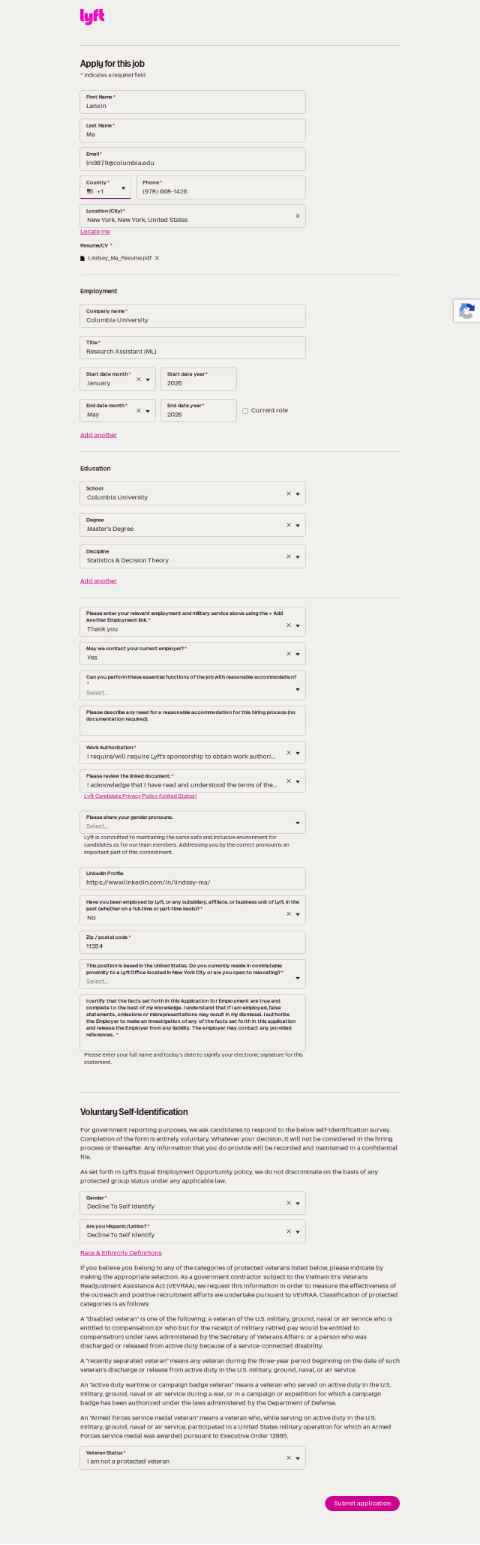
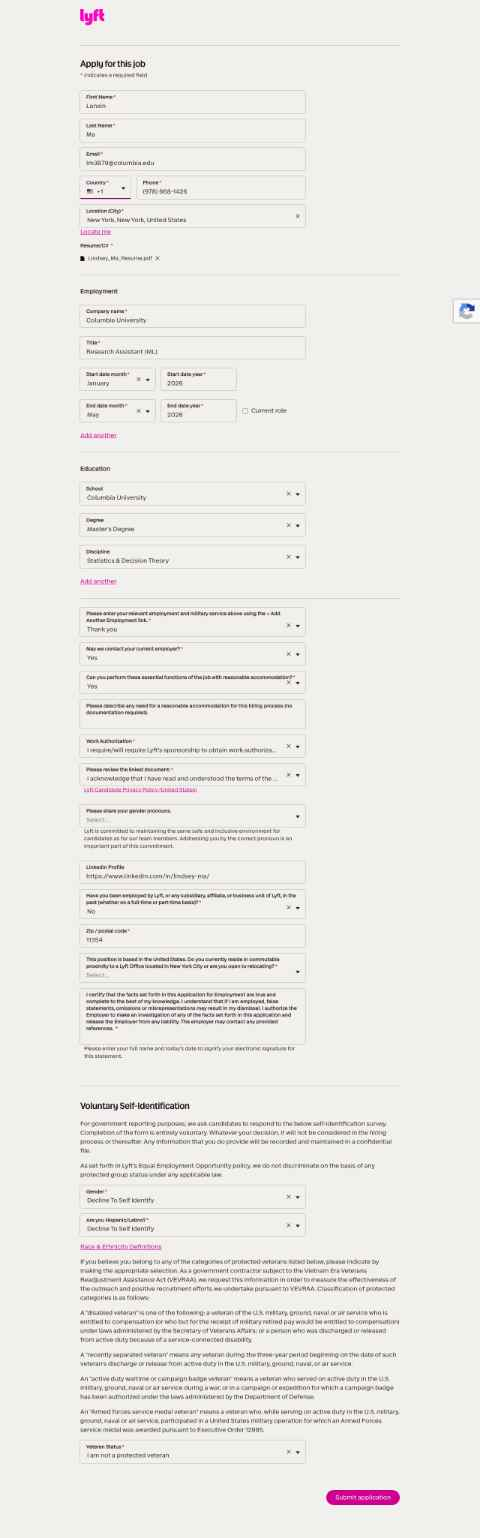
Lyft relocation options by her metro; government-employment questions; Databricks answer from the resume
Claude-Session: https://claude.ai/code/session_01LthPYPCFWW6DXaP1StUSyu

diff --git a/src/plan/rules.ts b/src/plan/rules.ts
@@ -54,6 +54,8 @@ export interface RuleContext {
   jobCountry?: string;
   // The hiring company, as the form names it.
   company?: string;
+  // Where the posting is, as the form or catalog gives it.
+  jobLocation?: string;
   // How many earlier applications to this employer the ledger holds.
   priorApplications?: number;
 }
@@ -95,7 +97,8 @@ export const PROFILE_RULES: ProfileRule[] = [
   {
     // "Are you currently living in / based in the Bay Area?" from the state the candidate lives in.
     path: "contact.address.state",
-    pattern: /\b(currently )?(living|based|located|residing|live) in (the )?(san francisco )?bay area\b|\b(currently )?(living|based|located|residing) in new york\b/,
+    // Not a relocation question that names an office ("... a Lyft Office located in New York City or are you open to relocating?").
+    pattern: /^(?!.*\brelocat)(?:.*\b(currently )?(living|based|located|residing|live) in (the )?(san francisco )?bay area\b|.*\b(currently )?(living|based|located|residing) in new york\b)/,
     resolve: (p, label) => yesNo(/bay area/.test(label) ? p.contact.address.state.toUpperCase() === "CA" : p.contact.address.state.toUpperCase() === "NY"),
   },
   {
@@ -231,6 +234,18 @@ export const PROFILE_RULES: ProfileRule[] = [
     },
   },
   {
+    // Asana: "Do you currently work for or have you ever worked for a U.S. government entity ...?" and its
+    // "If you answered Yes, list the entity; if not applicable, type N/A": from the resume's employers.
+    path: "workHistory",
+    pattern: /\b(work(ed)? for|employed by) (a |an |any )?(u s |us |federal |state )?government\b|\bgovernment entity you worked for\b/,
+    resolve: (p, label, ctx) => {
+      if (p.workHistory.some((w) => /\b(government|federal|department of|agency|u\.?s\.? army|navy|air force)\b/i.test(w.employer))) return undefined;
+      if (/\bif you answered\b.*\bn ?a\b/.test(label)) return "N/A";
+      const no = (ctx.options ?? []).filter((o) => /^no\b/i.test(o.trim()));
+      return ctx.options?.length ? (no.length === 1 ? no[0] : undefined) : "No";
+    },
+  },
+  {
     // Any other "have you worked for / been employed by / contracted with <this company>?":
     // the hiring company must be named, and her resume's employers decide.
     path: "workHistory",
@@ -275,7 +290,16 @@ export const PROFILE_RULES: ProfileRule[] = [
     pattern: /\b(on ?site|in office|in the office|in person|office (monday|five|5|four|4|three|3)|(five|5|four|4|three|3) days (a|per) week|relocat(e|ion|ing)|commute|commutable|work(ing)? (out of|from|in) our .{0,40}\b(office|hq|headquarters)|work in the specified (job )?location)\b/,
     kinds: ["select", "radio", "combobox"],
     resolve: (p, label, ctx) => {
-      if (ctx.jobCountry !== "United States" || !(ctx.options ?? []).some((o) => /^yes\b/i.test(o.trim()))) return undefined;
+      if (ctx.jobCountry !== "United States") return undefined;
+      const opts = ctx.options ?? [];
+      // Lyft: "I already reside near a Lyft office ..." / "I am willing to relocate ..." / "I am not willing ...".
+      if (!opts.some((o) => /^yes\b/i.test(o.trim()))) {
+        // Near when the posting's place (or the office the question names) is her metro: New York for a NY address.
+        const metro = p.contact.address.state?.toUpperCase() === "NY" ? "new york" : normalize(p.contact.address.city ?? "");
+        const near = Boolean(metro) && normalize(`${ctx.jobLocation ?? ""} ${label}`).includes(metro) && !/\b(san francisco|seattle|boston|chicago|austin|los angeles)\b/.test(normalize(`${ctx.jobLocation ?? ""} ${label}`));
+        const pick = near ? opts.filter((o) => /\balready (reside|live)\b/i.test(o)) : p.workArrangement?.relocate ? opts.filter((o) => /\bwilling to relocate\b/i.test(o) && !/\bnot willing\b/i.test(o)) : [];
+        return pick.length === 1 ? pick[0] : undefined;
+      }
       if (/\b(support|assistance|package|stipend|reimburse)/.test(label)) return undefined;
       const relocation = /\brelocat/.test(label);
       const ok = relocation ? p.workArrangement?.relocate : p.workArrangement?.onsite;

diff --git a/tests/plan.test.ts b/tests/plan.test.ts
@@ -332,4 +332,15 @@ describe("buildPlan", () => {
     expect(one("Do you use AI tools in your daily work?", { kind: "select", options: ["Yes", "No"] })).toMatchObject({ status: "blocked" });
     expect(one("Signature: I certify the above is true and complete", { kind: "text" })).toMatchObject({ status: "blocked" });
   });
+
+  it("answers Lyft's relocation options by her metro, and Asana's government-employment pair", () => {
+    const p = { ...user.profile, contact: { ...user.profile.contact, address: { ...user.profile.contact.address, city: "Flushing", state: "NY" } }, workArrangement: { onsite: true, relocate: true }, workHistory: [{ employer: "Arborphy AI LLC" }] };
+    const lyft = ["I am willing to relocate before starting employment.", "I am not willing to relocate before starting employment.", "I already reside near a Lyft office and I am able to work at a Lyft On-site Office."];
+    const q = (city: string) => `This position is based in the United States. Do you currently reside in commutable proximity to a Lyft Office located in ${city} or are you open to relocating?`;
+    const one = (label: string, over: Partial<ReturnType<typeof field>>, loc: string) => buildPlan({ ...form([field(label, over)], "Lyft"), jobLocation: loc }, p, user.bank).items[0]!;
+    expect(one(q("New York City"), { kind: "combobox", options: lyft }, "New York, NY")).toMatchObject({ value: lyft[2] });
+    expect(one(q("San Francisco"), { kind: "combobox", options: lyft }, "San Francisco, CA")).toMatchObject({ value: lyft[0] });
+    expect(one("Do you currently work for or have you ever worked for a U.S. government entity, either as a contractor or employee?", { kind: "combobox", options: ["Yes, I do work/have worked for a U.S. government entity.", "No, I have never."] }, "New York, NY")).toMatchObject({ value: "No, I have never." });
+    expect(one("If you answered “Yes,” please list the U.S. government entity you worked for. If not applicable, type 'N/A.'", { kind: "text" }, "New York, NY")).toMatchObject({ value: "N/A" });
+  });
 });

diff --git a/src/plan/plan.ts b/src/plan/plan.ts
@@ -117,7 +117,7 @@ function planField(field: FormField, form: FormSnapshot, profile: Profile, bank:
     return unanswered(field, "no document for this upload");
   }
 
-  const candidate = fromBank(label, bank, form.company, sensitive) ?? fromProfile(label, field, profile, { options: field.options, company: form.company, ...(form.priorApplications !== undefined ? { priorApplications: form.priorApplications } : {}), ...(jobCountry(form.jobLocation) ? { jobCountry: jobCountry(form.jobLocation)! } : {}) });
+  const candidate = fromBank(label, bank, form.company, sensitive) ?? fromProfile(label, field, profile, { options: field.options, company: form.company, ...(form.jobLocation ? { jobLocation: form.jobLocation } : {}), ...(form.priorApplications !== undefined ? { priorApplications: form.priorApplications } : {}), ...(jobCountry(form.jobLocation) ? { jobCountry: jobCountry(form.jobLocation)! } : {}) });
   if (!candidate) return unanswered(field, sensitive ? "sensitive question with no exact answer" : "no answer in profile or answer bank");
 
   // A checkbox list (Workday's race/ethnicity) is matched like a radio group.
